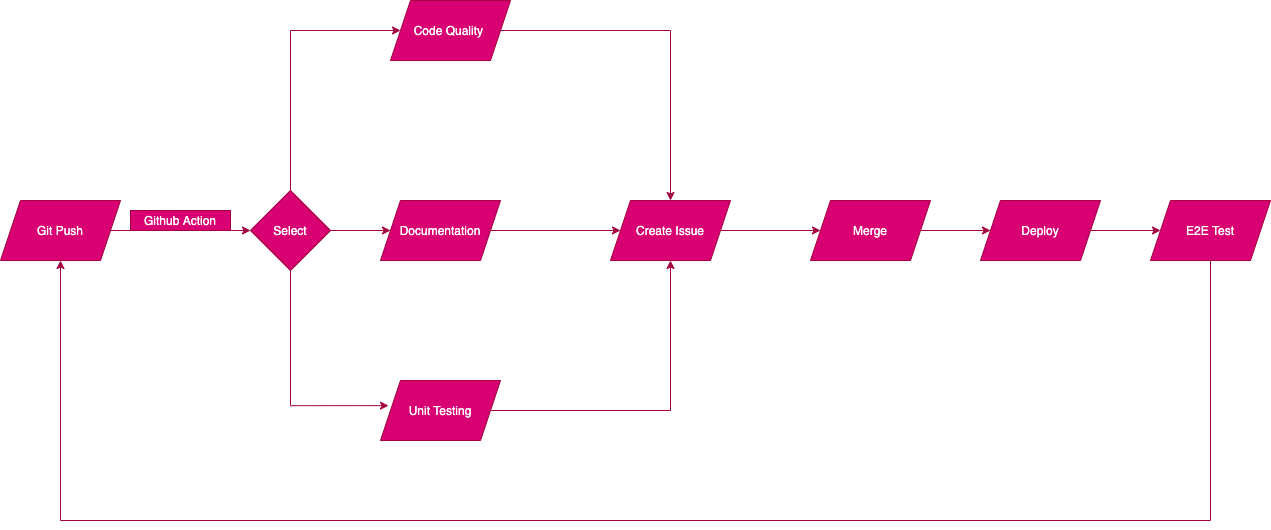
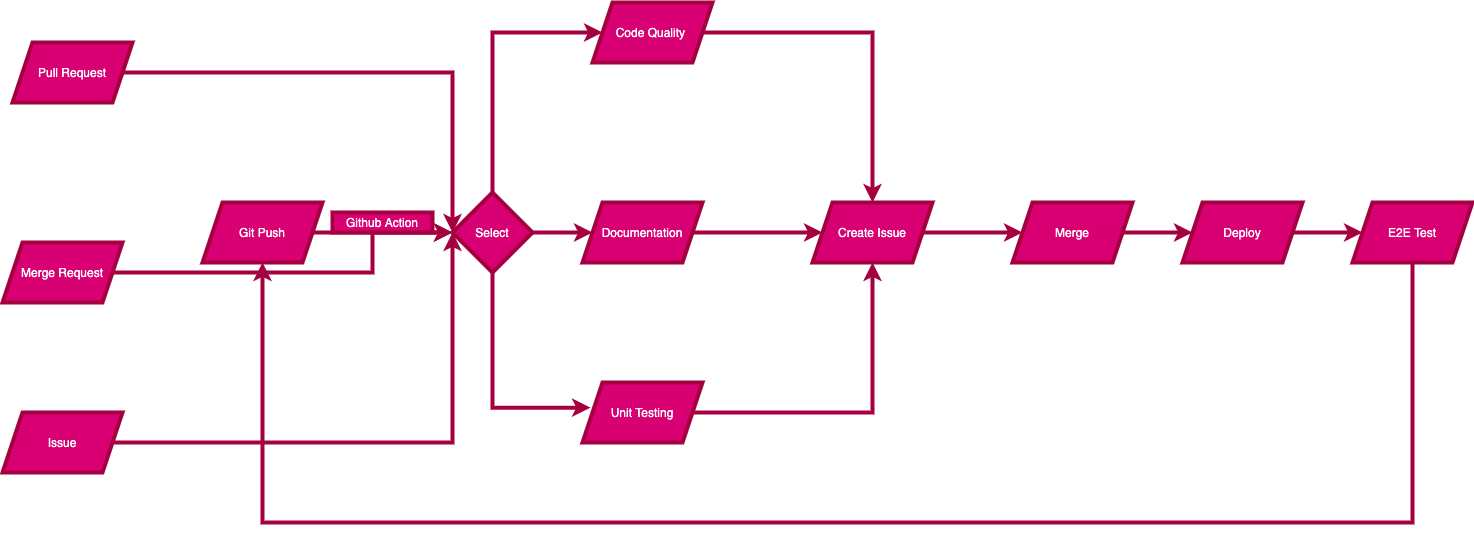
updated

Changed region(s): [[0.0, 0.0, 1.0, 0.9962]]

diff --git a/admin/cipipeline/phase1.md b/admin/cipipeline/phase1.md
@@ -1,0 +1,11 @@
+## Detail of the CI/CD Pipeline ##
+The first step of the CI/CD Pipeline is listening to event.  
+Our group mainly focus on four different events: Push, Pull Request Created, Issue Created and Pull Request merged.  
+Then these events will trigger different github action workflow accordingly.  
+At each time a contributor push the code, the github action will trigger the code quality tool such as codeclimate.  
+The pull Requests will also trigger the action that requires human to review the code.
+Then the github action will run the unit test. If there is no error it will deploy the application.  
+
+
+ 
+ 
